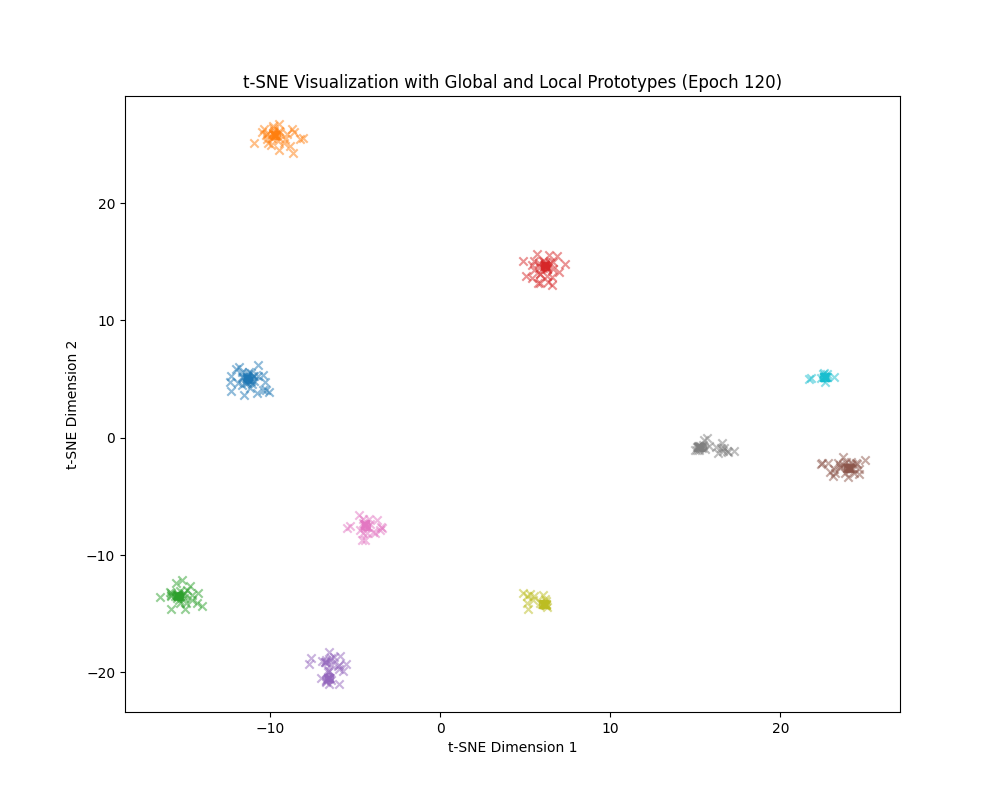
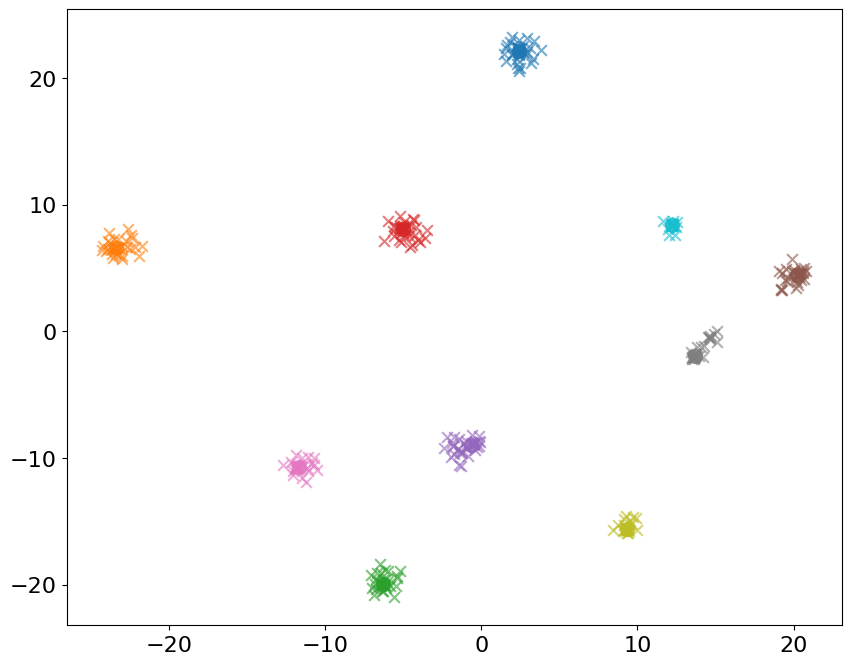
GMM 200rounds Fashion

diff --git a/system/flcore/servers/serverSAE.py b/system/flcore/servers/serverSAE.py
@@ -149,7 +149,7 @@ class FedSAE(Server):
         # global_protos = self.proto_aggregation_clients()
 
         sampled_features = self.cal_meancov_and_saveglprotos()
-        if self.args.drawGMM == 1 and self.current_epoch <= 2:
+        if self.args.drawGMM == 1 and self.current_epoch % 20 == 0:
             origin_features = defaultdict(list)
             # Select a class for visualization
             label_to_vis = 0
@@ -215,8 +215,8 @@ class FedSAE(Server):
             plt.yticks(fontsize=14)
             plt.savefig(f'./gaussion_tsne/{self.args.dataset}_virtual_tsne_class_{label_to_vis}_{self.current_epoch}.png', bbox_inches='tight', dpi=300)
             plt.close()
-            if self.current_epoch == 2:
-                exit()
+            # if self.current_epoch == 2:
+            #     exit()
 
         # sampler = GaussianSampler(self.args)
         # sampled_features = sampler.aggregate_and_sample(self.edges, self.clients)

diff --git a/system/logs/Cifar10/Cifar10_dir_0.3_imbalance_40/NE_10/epochs_5/dim512/energy&acc.py b/system/logs/Cifar10/Cifar10_dir_0.3_imbalance_40/NE_10/epochs_5/dim512/energy&acc.py
@@ -226,13 +226,13 @@ for idx, file in enumerate(log_files):
            label=legend_label, linestyle=LINE_STYLES[idx], color=COLORS[idx])
     
     # Plot in inset axes
-    axins.plot(range(181, 201), accuracies[180:200], 
+    axins.plot(range(180, 201), accuracies[179:200], 
               linestyle=LINE_STYLES[idx], color=COLORS[idx])
 
 # Configure main plot
 ax.set_xlabel("Iteration")
 ax.set_ylabel("Average Test Accuracy")
-ax.legend()
+ax.legend(loc='lower right')
 # ax.grid(True)
 
 # Configure inset plot
@@ -240,7 +240,7 @@ axins.set_xlim(180, 200)
 # axins.grid(True)
 
 # Draw box around the zoomed region
-# ax.indicate_inset_zoom(axins)
+ax.indicate_inset_zoom(axins)
 
 plt.savefig("./Model_acc.png",bbox_inches='tight', dpi=300)
 print("Chart saved to ./Model_acc.png")
